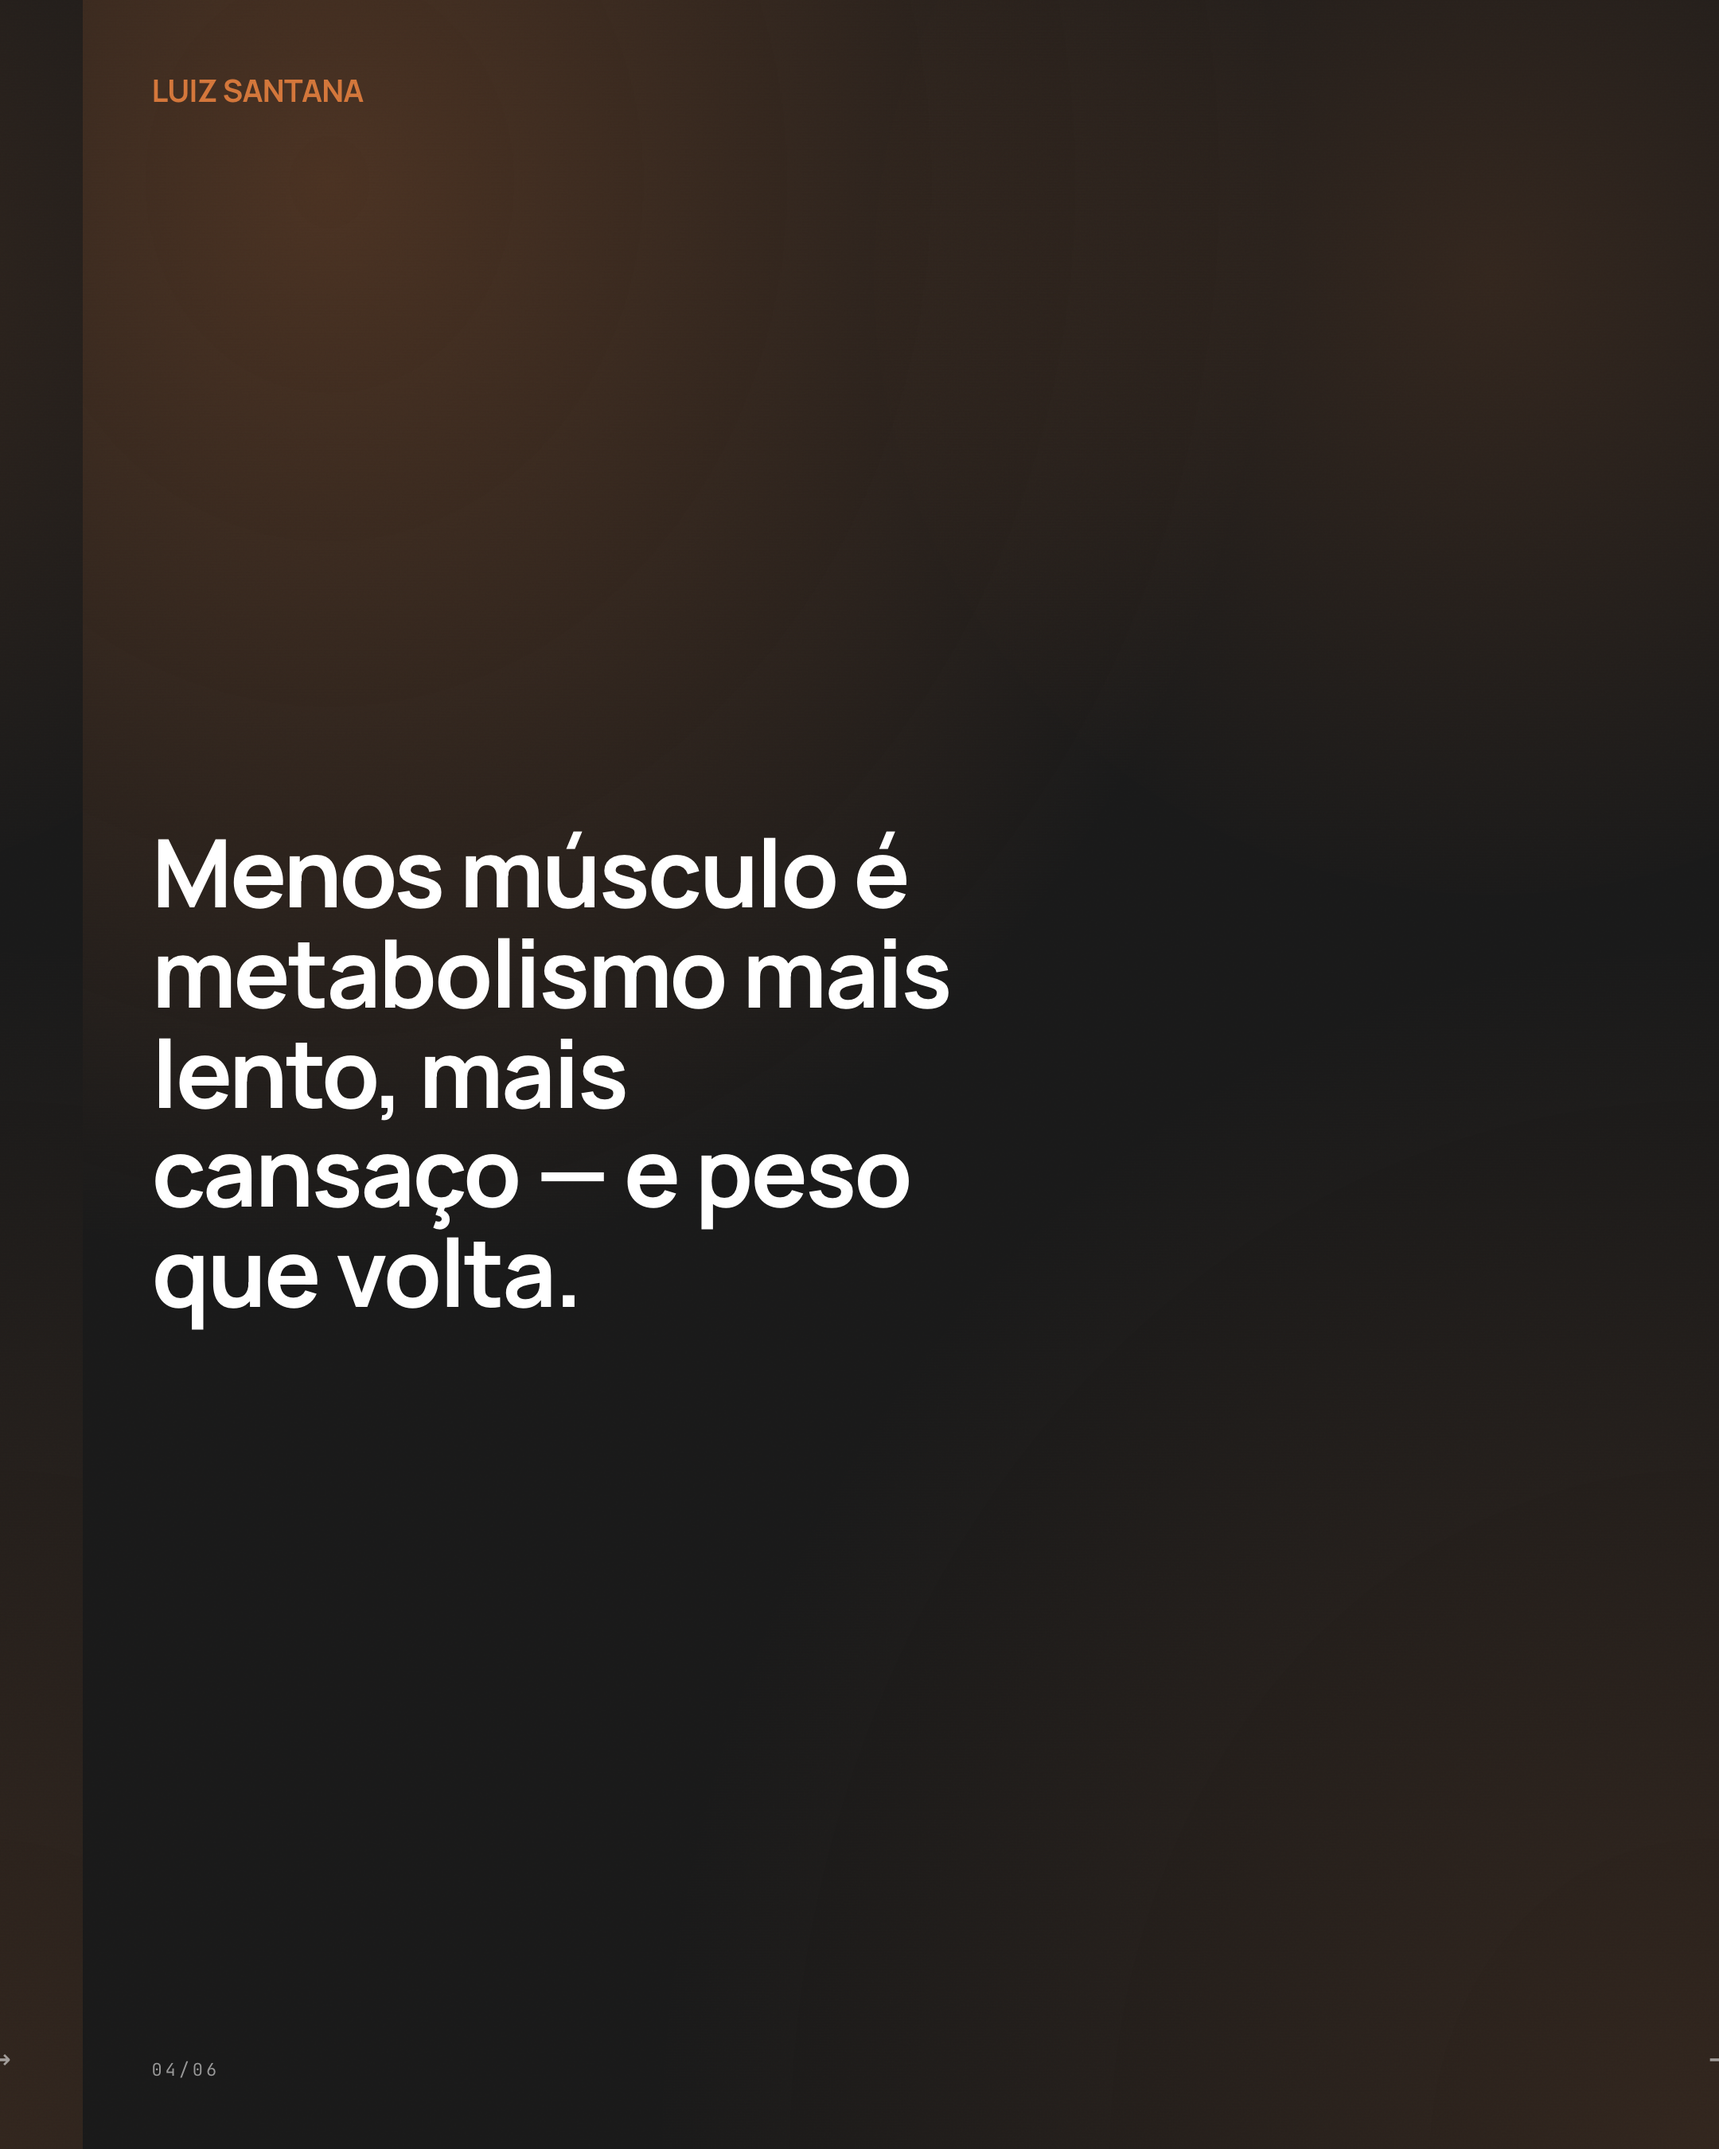
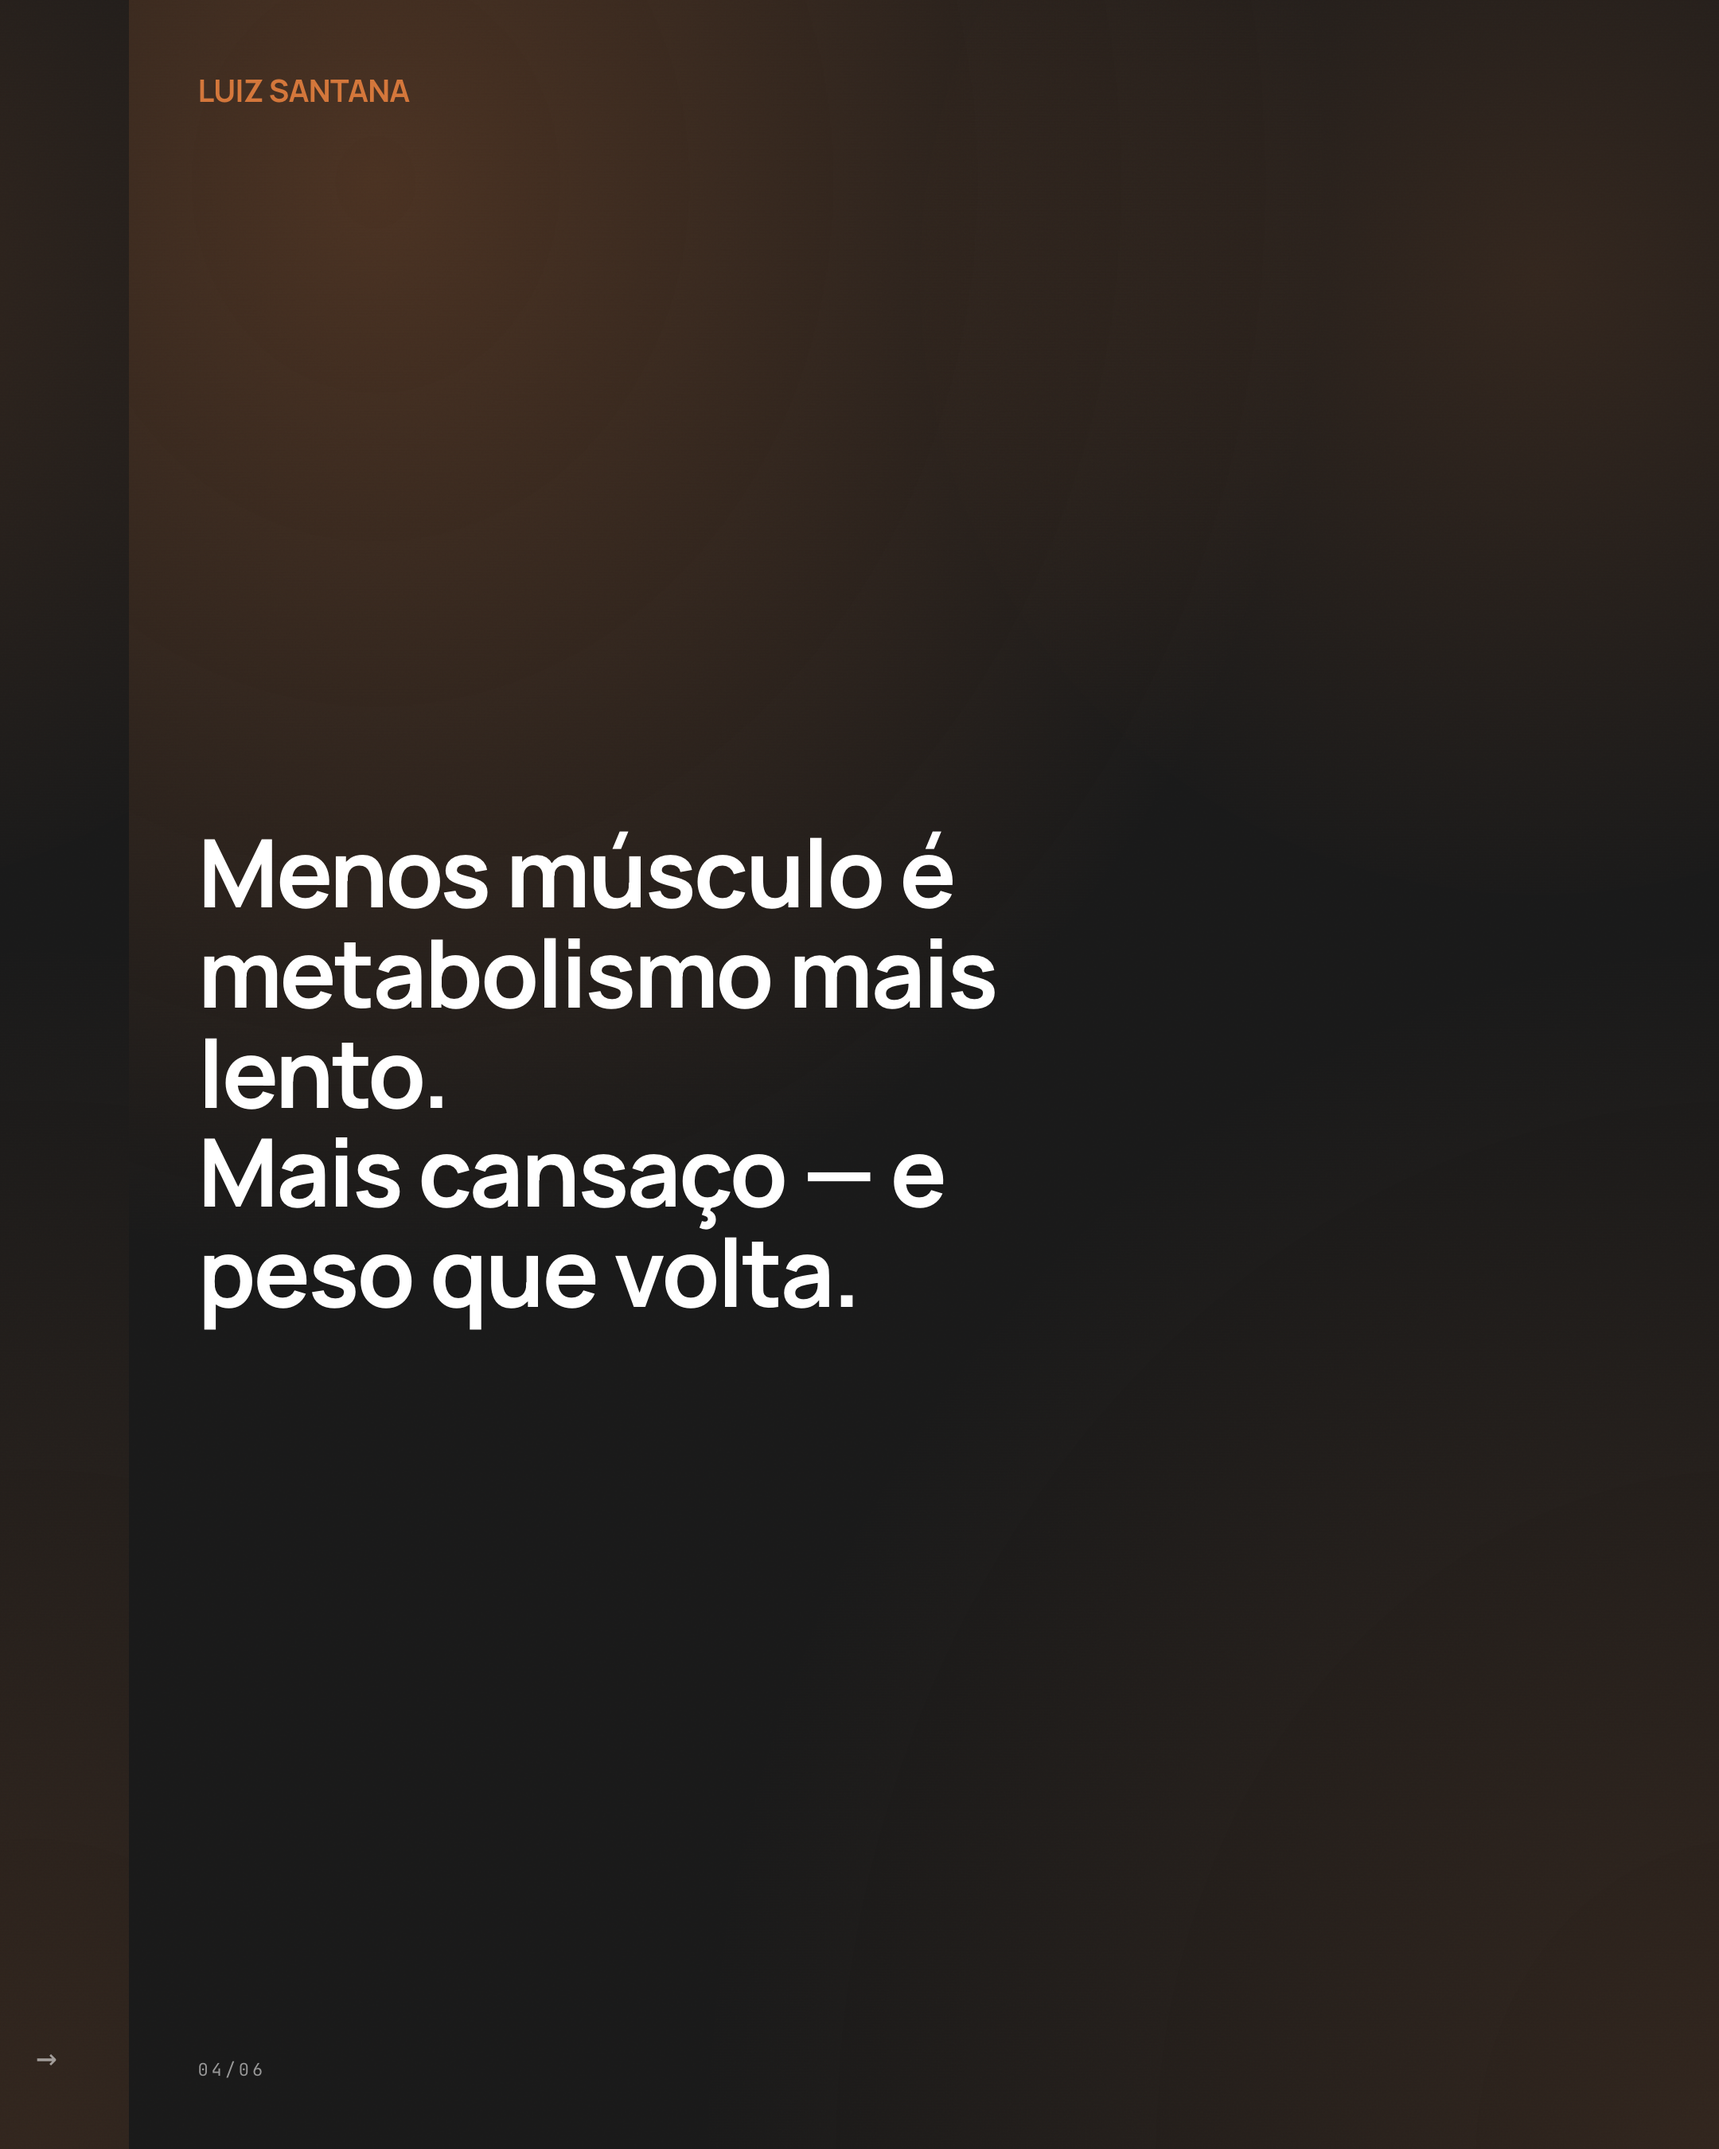
fix(luiz/c05): slide 4 mais extenso (max-width 38ch, text-wrap wrap, <br> em 2 frases)

Changed region(s): [[0.0931, 0.3733, 0.5894, 0.6222], [0.031, 0.0, 0.2481, 0.1244]]

diff --git a/public/brands/luiz_santana/output/2026-05/carrosseis/c05-emagrecimento-glp1.html b/public/brands/luiz_santana/output/2026-05/carrosseis/c05-emagrecimento-glp1.html
@@ -89,8 +89,11 @@ h1, h2, h3, p, blockquote, .num {
   text-wrap: balance;
   text-wrap: pretty;
 }
+#slide-4 h1, #slide-4 p, #slide-4 .num { text-wrap: wrap !important; }
 
 #slide-1 { padding: clamp(36px, 5vw, 64px) !important; overflow: hidden; }
+#slide-4 .slide__body h1 { max-width: 38ch !important; font-size: clamp(22px, 3.4vw, 42px) !important; line-height: 1.18 !important; text-wrap: wrap !important; }
+#slide-4 .slide__body { justify-items: start !important; }
 #slide-1 .slide__top { gap: clamp(16px, 3vw, 32px); align-items: baseline; }
 #slide-1 .cap-index { font-family: var(--font-mono); font-size: 10px; letter-spacing: 0.22em; text-transform: uppercase; color: rgba(255,255,255,0.45); }
 #slide-1 .bg-word { position: absolute; bottom: -6vh; right: -3vw; font-family: var(--font-serif); font-style: italic; font-weight: 200; font-size: clamp(170px, 26vw, 320px); color: transparent; -webkit-text-stroke: 1.4px rgba(255,255,255,0.085); letter-spacing: -0.045em; line-height: 0.82; user-select: none; pointer-events: none; z-index: 0; white-space: nowrap; text-transform: lowercase; }
@@ -173,7 +176,7 @@ h1, h2, h3, p, blockquote, .num {
 
 <article class="slide slide--type" id="slide-4">
   <div class="slide__top"><span class="brand-glyph">Luiz Santana</span></div>
-  <div class="slide__body"><h1>Menos músculo é metabolismo mais lento, mais cansaço&nbsp;— e peso que&nbsp;volta.</h1></div>
+  <div class="slide__body"><h1>Menos músculo é metabolismo mais lento.<br>Mais cansaço&nbsp;— e peso que&nbsp;volta.</h1></div>
   <div class="slide__bottom"><span>04/06</span><span class="arrow">→</span></div>
 <div class="fx-atmos"></div><div class="fx-orb"></div><div class="fx-grain"></div></article>
 
